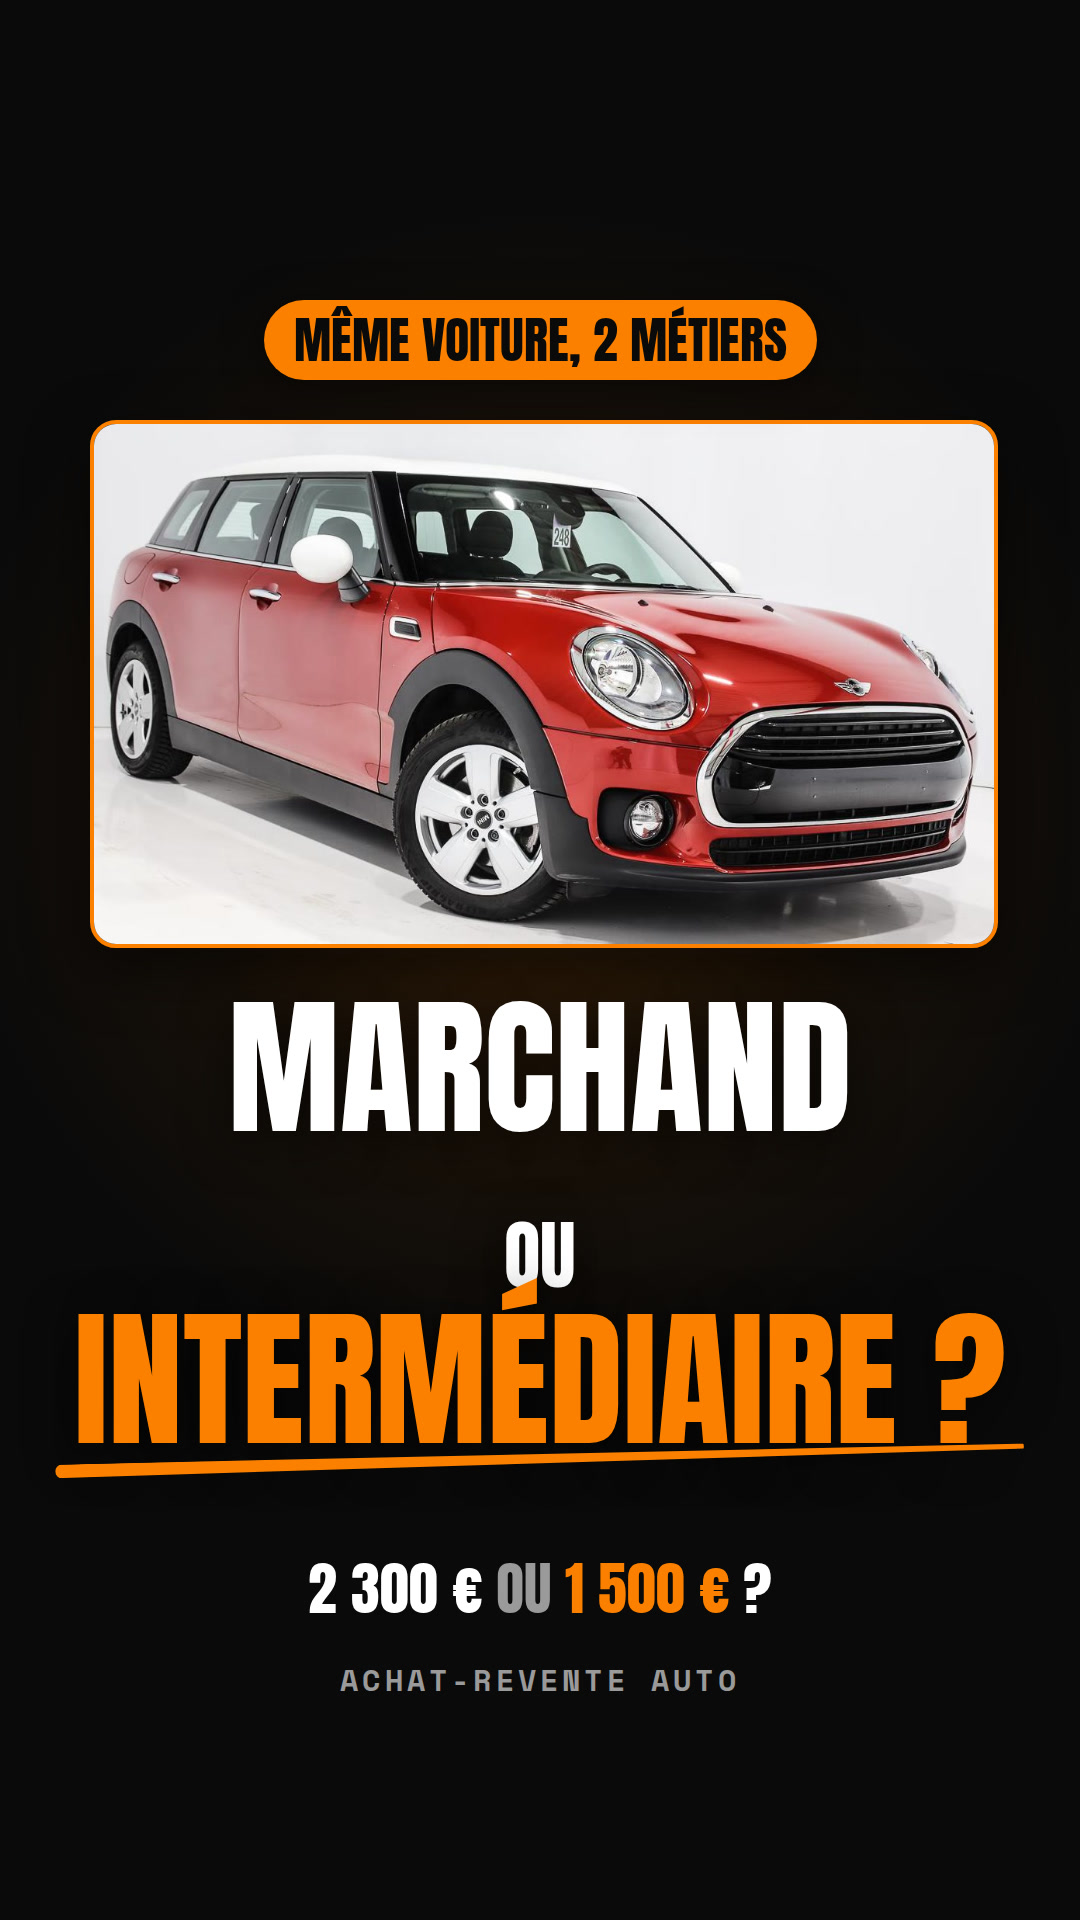
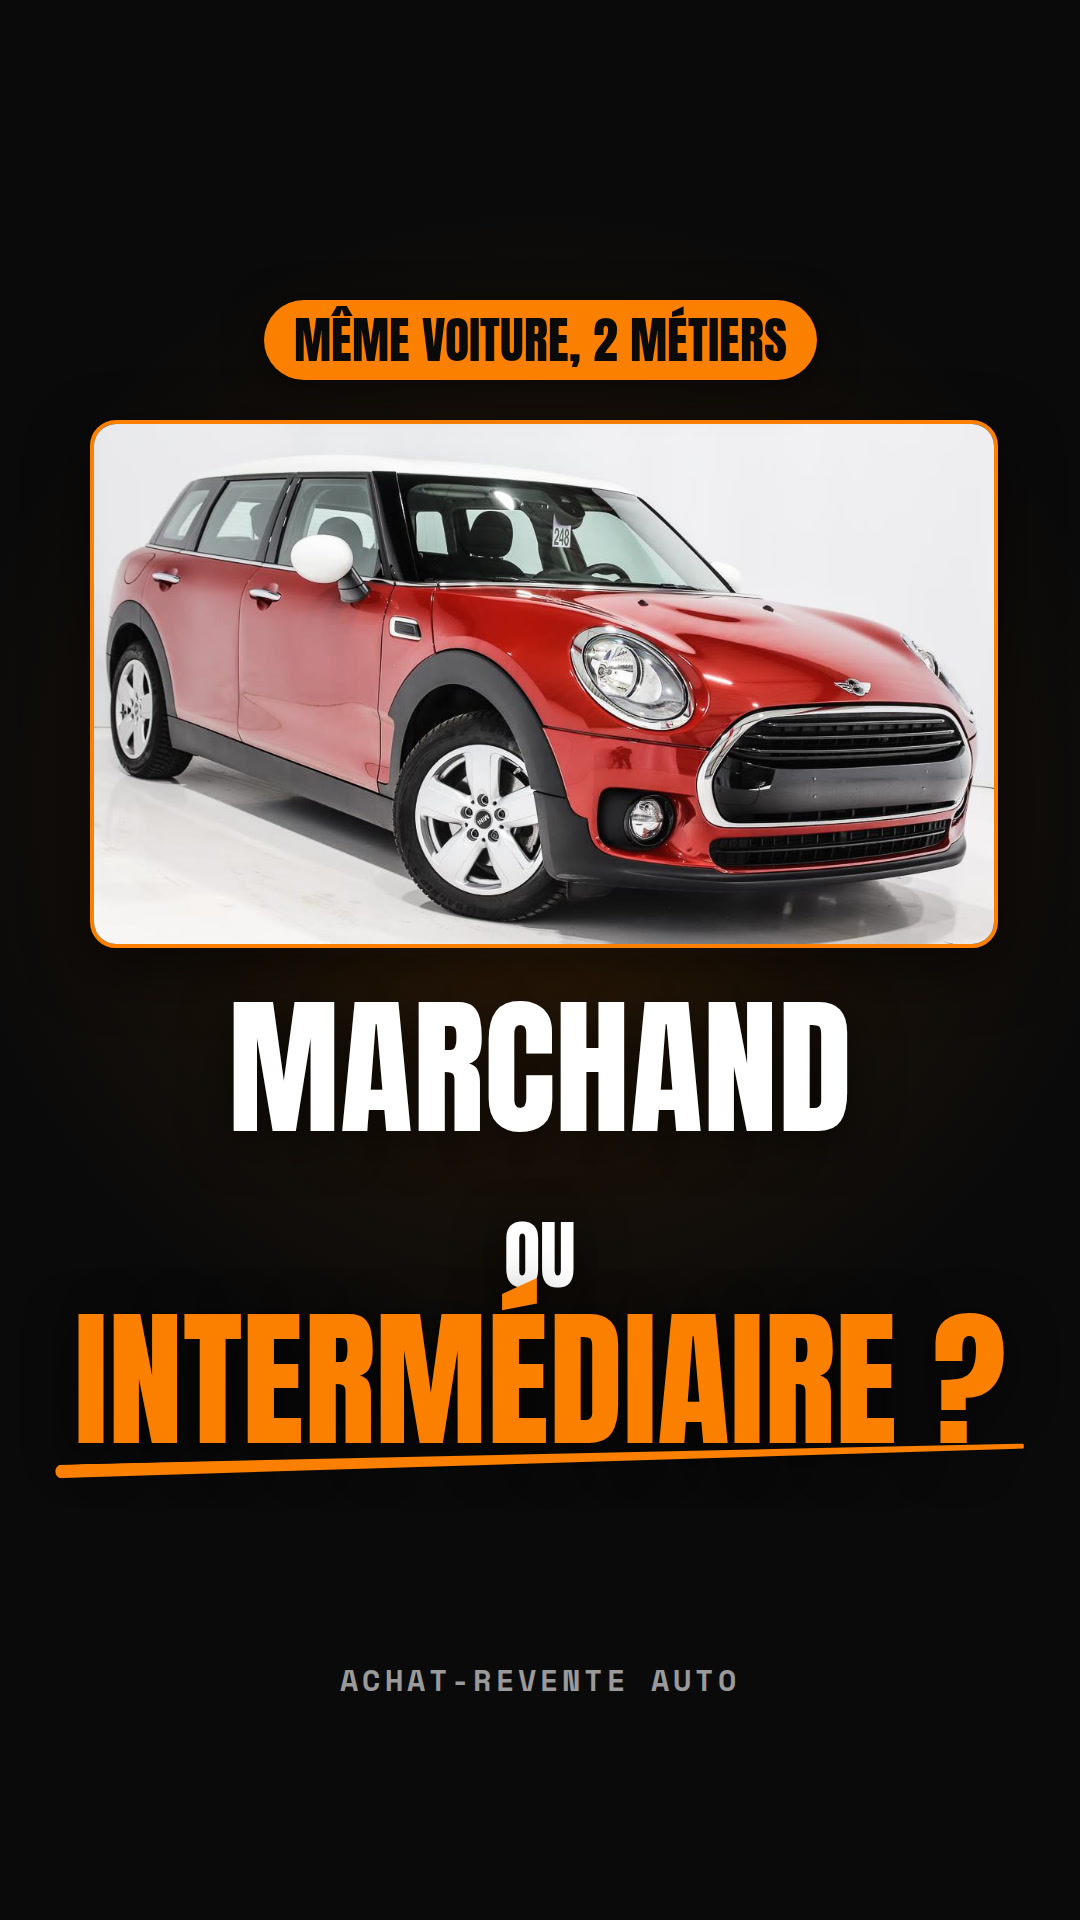
marchand: cover sans « 2 300 € ou 1 500 € ? »
Claude-Session: https://claude.ai/code/session_01ARRCBTu3oy2jxFdHDyiDcc

Changed region(s): [[0.275, 0.8125, 0.7333, 0.8438]]

diff --git a/marchand/cover/cover.html b/marchand/cover/cover.html
@@ -27,4 +27,4 @@ html, body { margin: 0; background: #0A0A0A; }
 .tile.or { border-color: #FB8000; }
 #k { position: absolute; left: 0; top: 1665px; width: 1080px; text-align: center; font: 700 30px/1 "Space Mono", monospace;
   color: #9a9a9a; letter-spacing: 0.14em; }
-</style></head><body><div id="c"><div id="halo"></div><div style="position:absolute;left:90px;top:420px;width:900px;height:520px;border-radius:26px;overflow:hidden;border:4px solid #FB8000;box-shadow:0 20px 60px rgba(0,0,0,0.6)"><img src="mini.jpg" style="width:100%;height:100%;object-fit:cover"></div><div id="hook"><span>MÊME VOITURE, 2 MÉTIERS</span></div><div id="t" style="top:990px;font-size:150px">MARCHAND<br><span style="font-size:0.5em">OU</span><br><i class="u"><b>INTERMÉDIAIRE ?</b></i></div><div style="position:absolute;left:0;top:1560px;width:1080px;text-align:center;font:58px/1 Anton;color:#fff">2 300 € <span style="color:#9a9a9a">OU</span> <span style="color:#FB8000">1 500 €</span> ?</div><div id="k" style="font-size:30px">ACHAT-REVENTE AUTO</div></div></body></html>
+</style></head><body><div id="c"><div id="halo"></div><div style="position:absolute;left:90px;top:420px;width:900px;height:520px;border-radius:26px;overflow:hidden;border:4px solid #FB8000;box-shadow:0 20px 60px rgba(0,0,0,0.6)"><img src="mini.jpg" style="width:100%;height:100%;object-fit:cover"></div><div id="hook"><span>MÊME VOITURE, 2 MÉTIERS</span></div><div id="t" style="top:990px;font-size:150px">MARCHAND<br><span style="font-size:0.5em">OU</span><br><i class="u"><b>INTERMÉDIAIRE ?</b></i></div><div id="k" style="font-size:30px">ACHAT-REVENTE AUTO</div></div></body></html>

diff --git a/dubai/cover/covers-autres-reels.py b/dubai/cover/covers-autres-reels.py
@@ -56,7 +56,7 @@ C = {
    k="ACHAT-REVENTE AUTO"),
  "marchand": dict(hero='<div id="halo"></div><div style="position:absolute;left:90px;top:420px;width:900px;height:520px;border-radius:26px;overflow:hidden;border:4px solid #FB8000;box-shadow:0 20px 60px rgba(0,0,0,0.6)"><img src="mini.jpg" style="width:100%;height:100%;object-fit:cover"></div>',
    hook="MÊME VOITURE, 2 MÉTIERS", title='MARCHAND<br><span style="font-size:0.5em">OU</span><br><i class="u"><b>INTERMÉDIAIRE ?</b></i>', ttop=990, tsize=150,
-   sub="", stop=0, extra='<div style="position:absolute;left:0;top:1560px;width:1080px;text-align:center;font:58px/1 Anton;color:#fff">2 300 € <span style="color:#9a9a9a">OU</span> <span style="color:#FB8000">1 500 €</span> ?</div>',
+   sub="", stop=0, extra="",
    k="ACHAT-REVENTE AUTO"),
  "chiffres": dict(hero='<div id="halo"></div>' + "".join(
      f'<div style="position:absolute;left:0;top:{330 + i * 110}px;width:1080px;text-align:center;font:{100}px/1 Anton;color:{c};opacity:{o}">{v}</div>'
